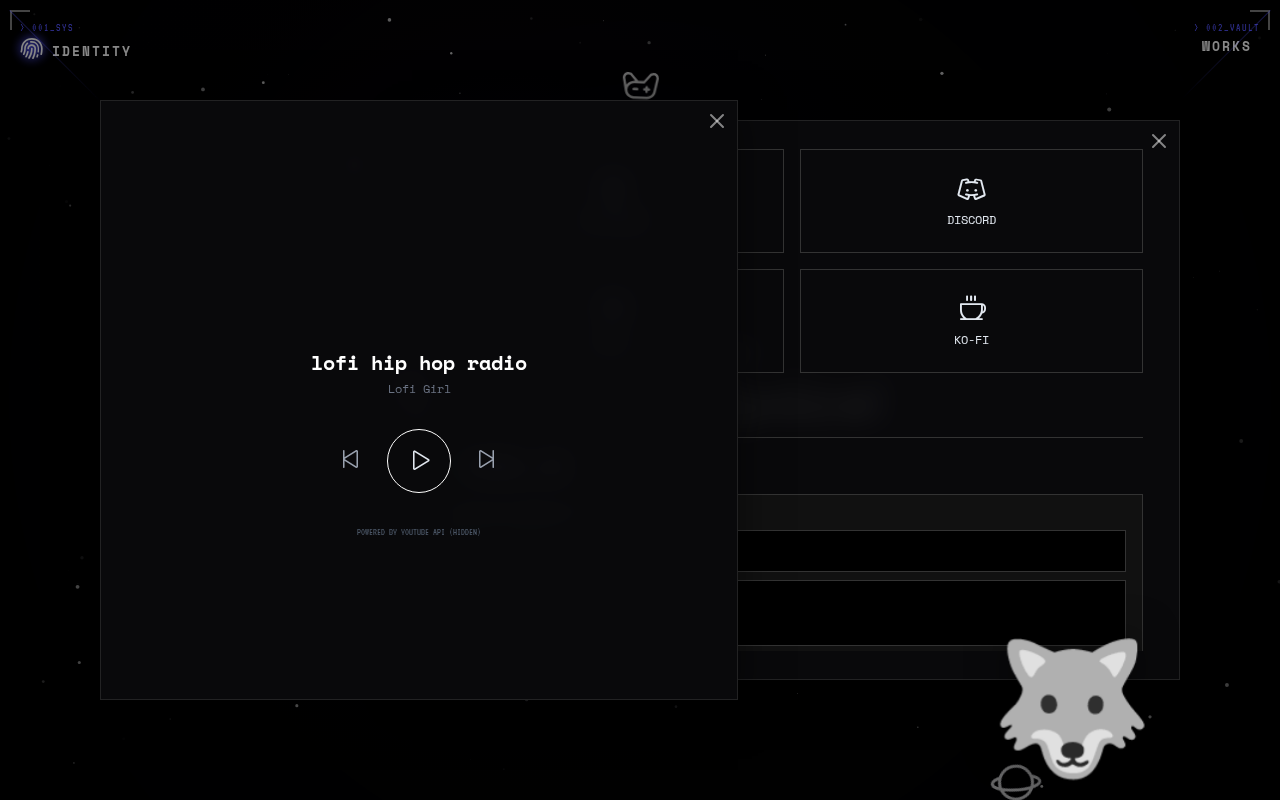
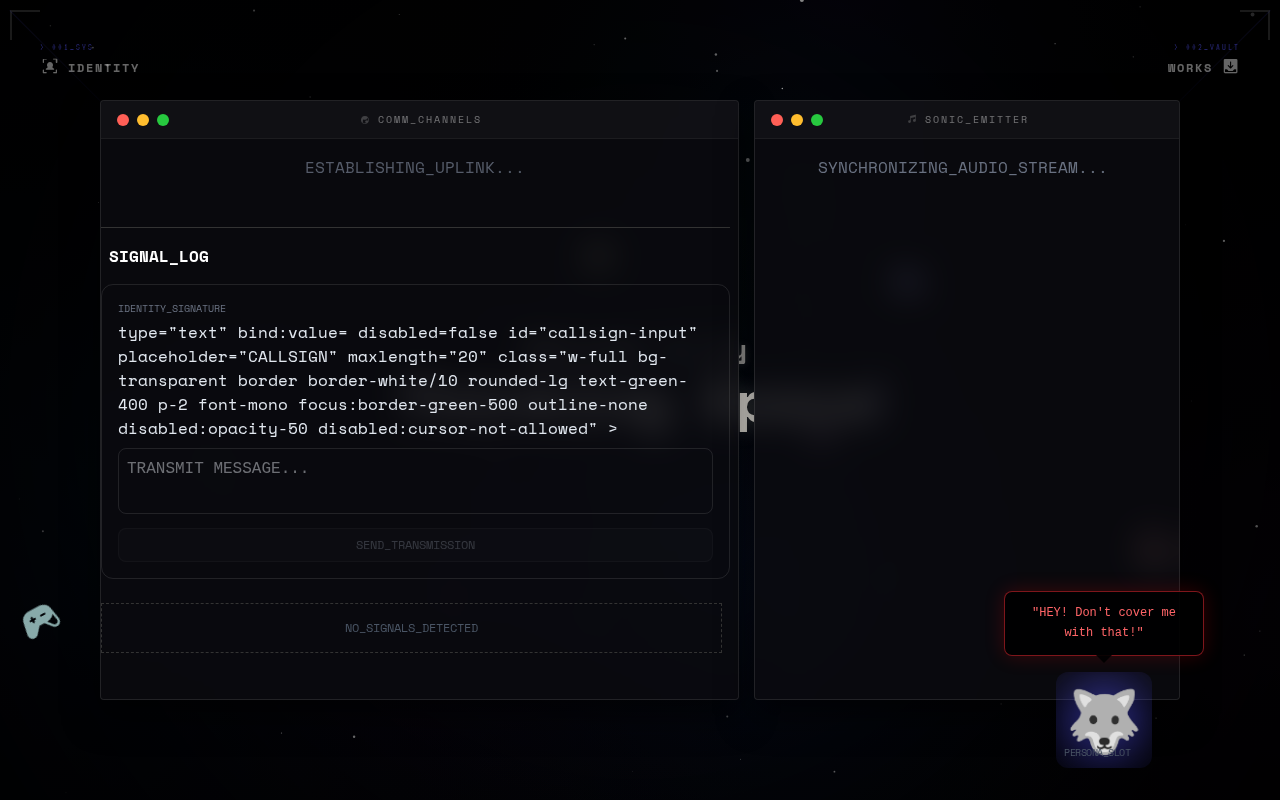
fix: implement missing WindowManager methods and fix UI crashes

diff --git a/src/lib/windowManager.svelte.js b/src/lib/windowManager.svelte.js
@@ -14,7 +14,9 @@ class WindowManager {
         'c-tr': 'ph-archive-tray',
         'c-tl': 'ph-user-focus',
         'c-bl': 'ph-music-notes',
-        'c-br': 'ph-globe-hemisphere-east'
+        'c-br': 'ph-globe-hemisphere-east',
+        'file-viewer': 'ph-file-text',
+        'control-center': 'ph-gear-six'
     };
 
     constructor() {
@@ -26,9 +28,17 @@ class WindowManager {
 
     register(id, component) { this.registry.set(id, component); }
 
+    getIcon(id) {
+        if (id.startsWith('admin-')) return 'ph-shield-checkered';
+        return this.iconMap[id] || 'ph-app-window';
+    }
+
     open(id, options = {}) {
         const component = this.registry.get(options.componentId || id);
-        if (!component) return;
+        if (!component) {
+            console.error(`Component not registered for ID: ${id}`);
+            return;
+        }
 
         const existing = this.windows.find(w => w.id === id);
         if (existing) {
@@ -53,7 +63,9 @@ class WindowManager {
             state: 'opening',
             isTiled: options.isTiled !== undefined ? options.isTiled : true,
             isMaximized: false,
-            minimized: false
+            minimized: false,
+            originRect: options.originRect,
+            originType: options.originType
         });
 
         this.windows.push(newWindow);
@@ -69,7 +81,11 @@ class WindowManager {
     close(id) {
         const w = this.windows.find(w => w.id === id);
         if (!w) return;
+
+        w.birthOriginRect = w.originRect;
+        w.birthOriginType = w.originType;
         w.state = 'closing';
+
         setTimeout(() => {
             this.windows = this.windows.filter(win => win.id !== id);
             if (this.masterWindowId === id) {
@@ -86,6 +102,47 @@ class WindowManager {
         if (w) {
             w.minimized = false;
             w.zIndex = Math.max(...this.windows.map(win => win.zIndex), 10) + 1;
+            this.recalculateLayout();
+        }
+    }
+
+    minimize(id) {
+        const w = this.windows.find(w => w.id === id);
+        if (w) {
+            w.minimized = true;
+            this.recalculateLayout();
+        }
+    }
+
+    maximize(id) {
+        const w = this.windows.find(w => w.id === id);
+        if (w) {
+            w.isMaximized = !w.isMaximized;
+            this.recalculateLayout();
+        }
+    }
+
+    untile(id) {
+        const w = this.windows.find(w => w.id === id);
+        if (w && w.isTiled) {
+            w.isTiled = false;
+            if (this.masterWindowId === id) {
+                const next = this.windows.find(win => win.isTiled && win.id !== id);
+                this.masterWindowId = next ? next.id : null;
+            }
+            this.recalculateLayout();
+        }
+    }
+
+    stopDrag() {
+        this.isDragging = false;
+    }
+
+    snap(id, zone) {
+        const w = this.windows.find(w => w.id === id);
+        if (w) {
+            w.isTiled = true;
+            if (zone === 'master') this.masterWindowId = id;
             this.recalculateLayout();
         }
     }

diff --git a/src/lib/components/WindowDock.svelte b/src/lib/components/WindowDock.svelte
@@ -11,7 +11,7 @@
         <div class="dock-bar">
             {#each minimizedWindows as win (win.id)}
                 <button
-                    id="dock-item-${win.id}"
+                    id="dock-item-{win.id}"
                     class="dock-item"
                     onclick={(e) => {
                     const rect = e.currentTarget.getBoundingClientRect();
